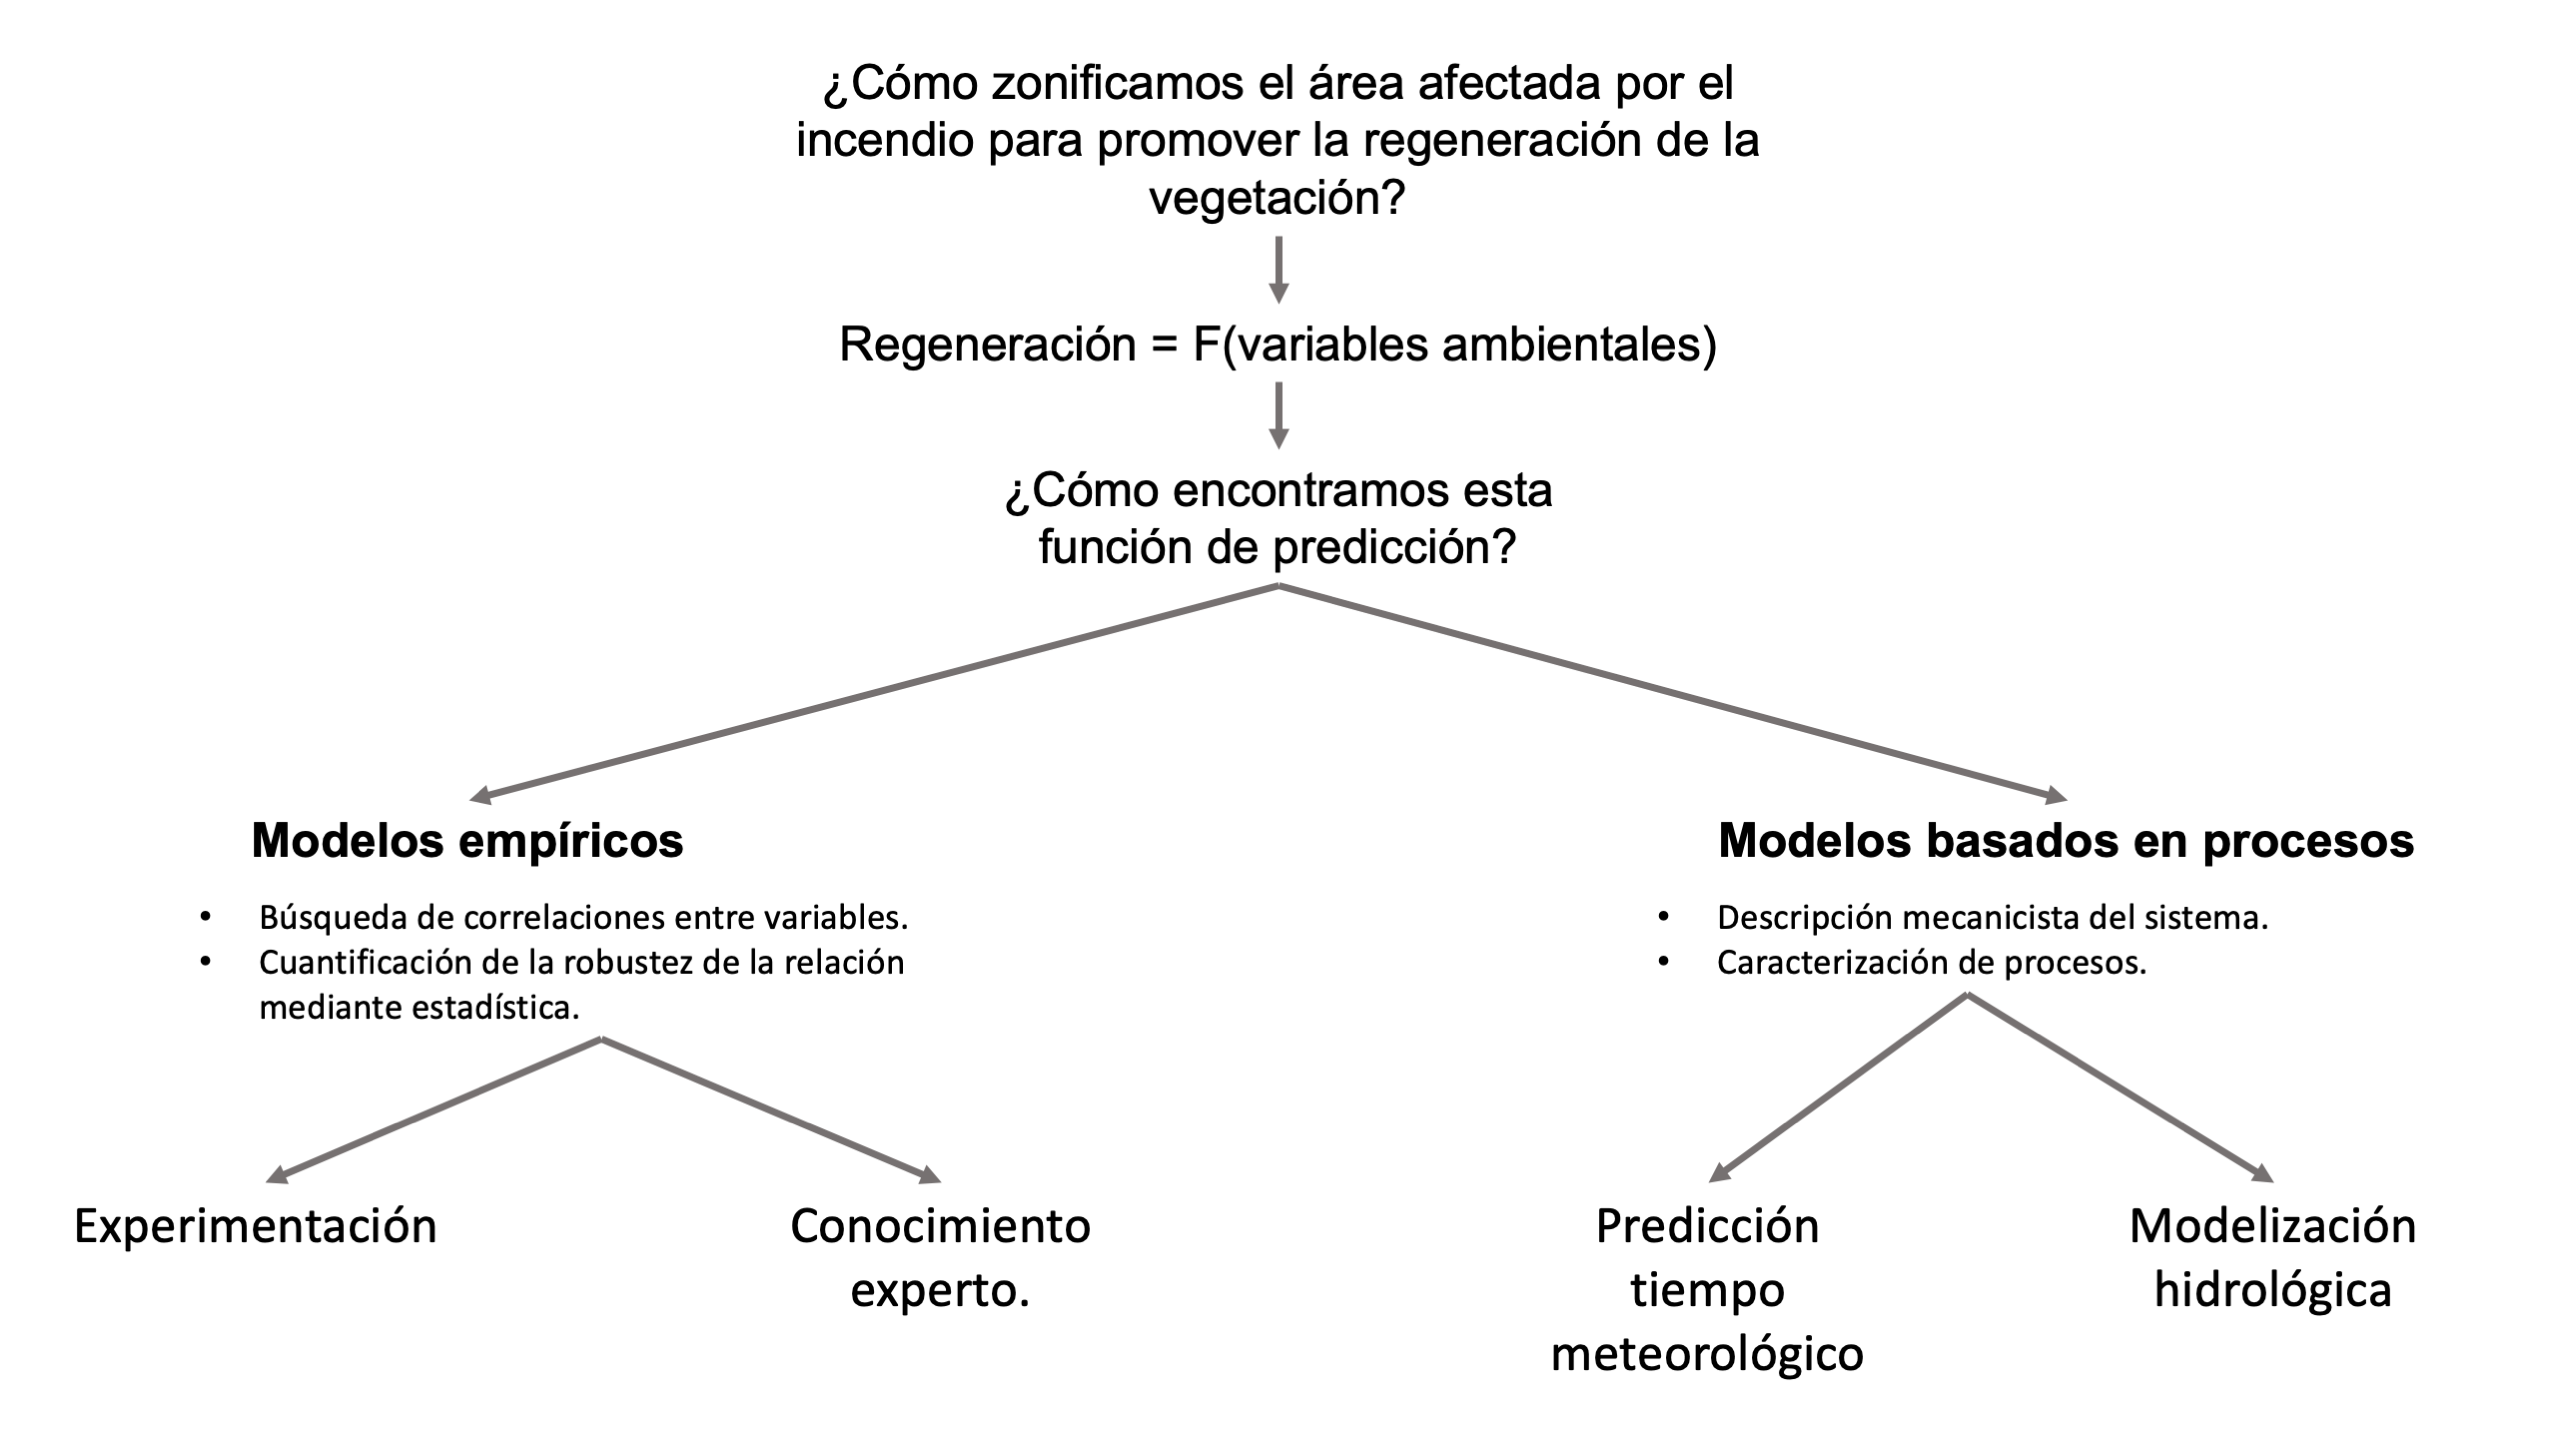
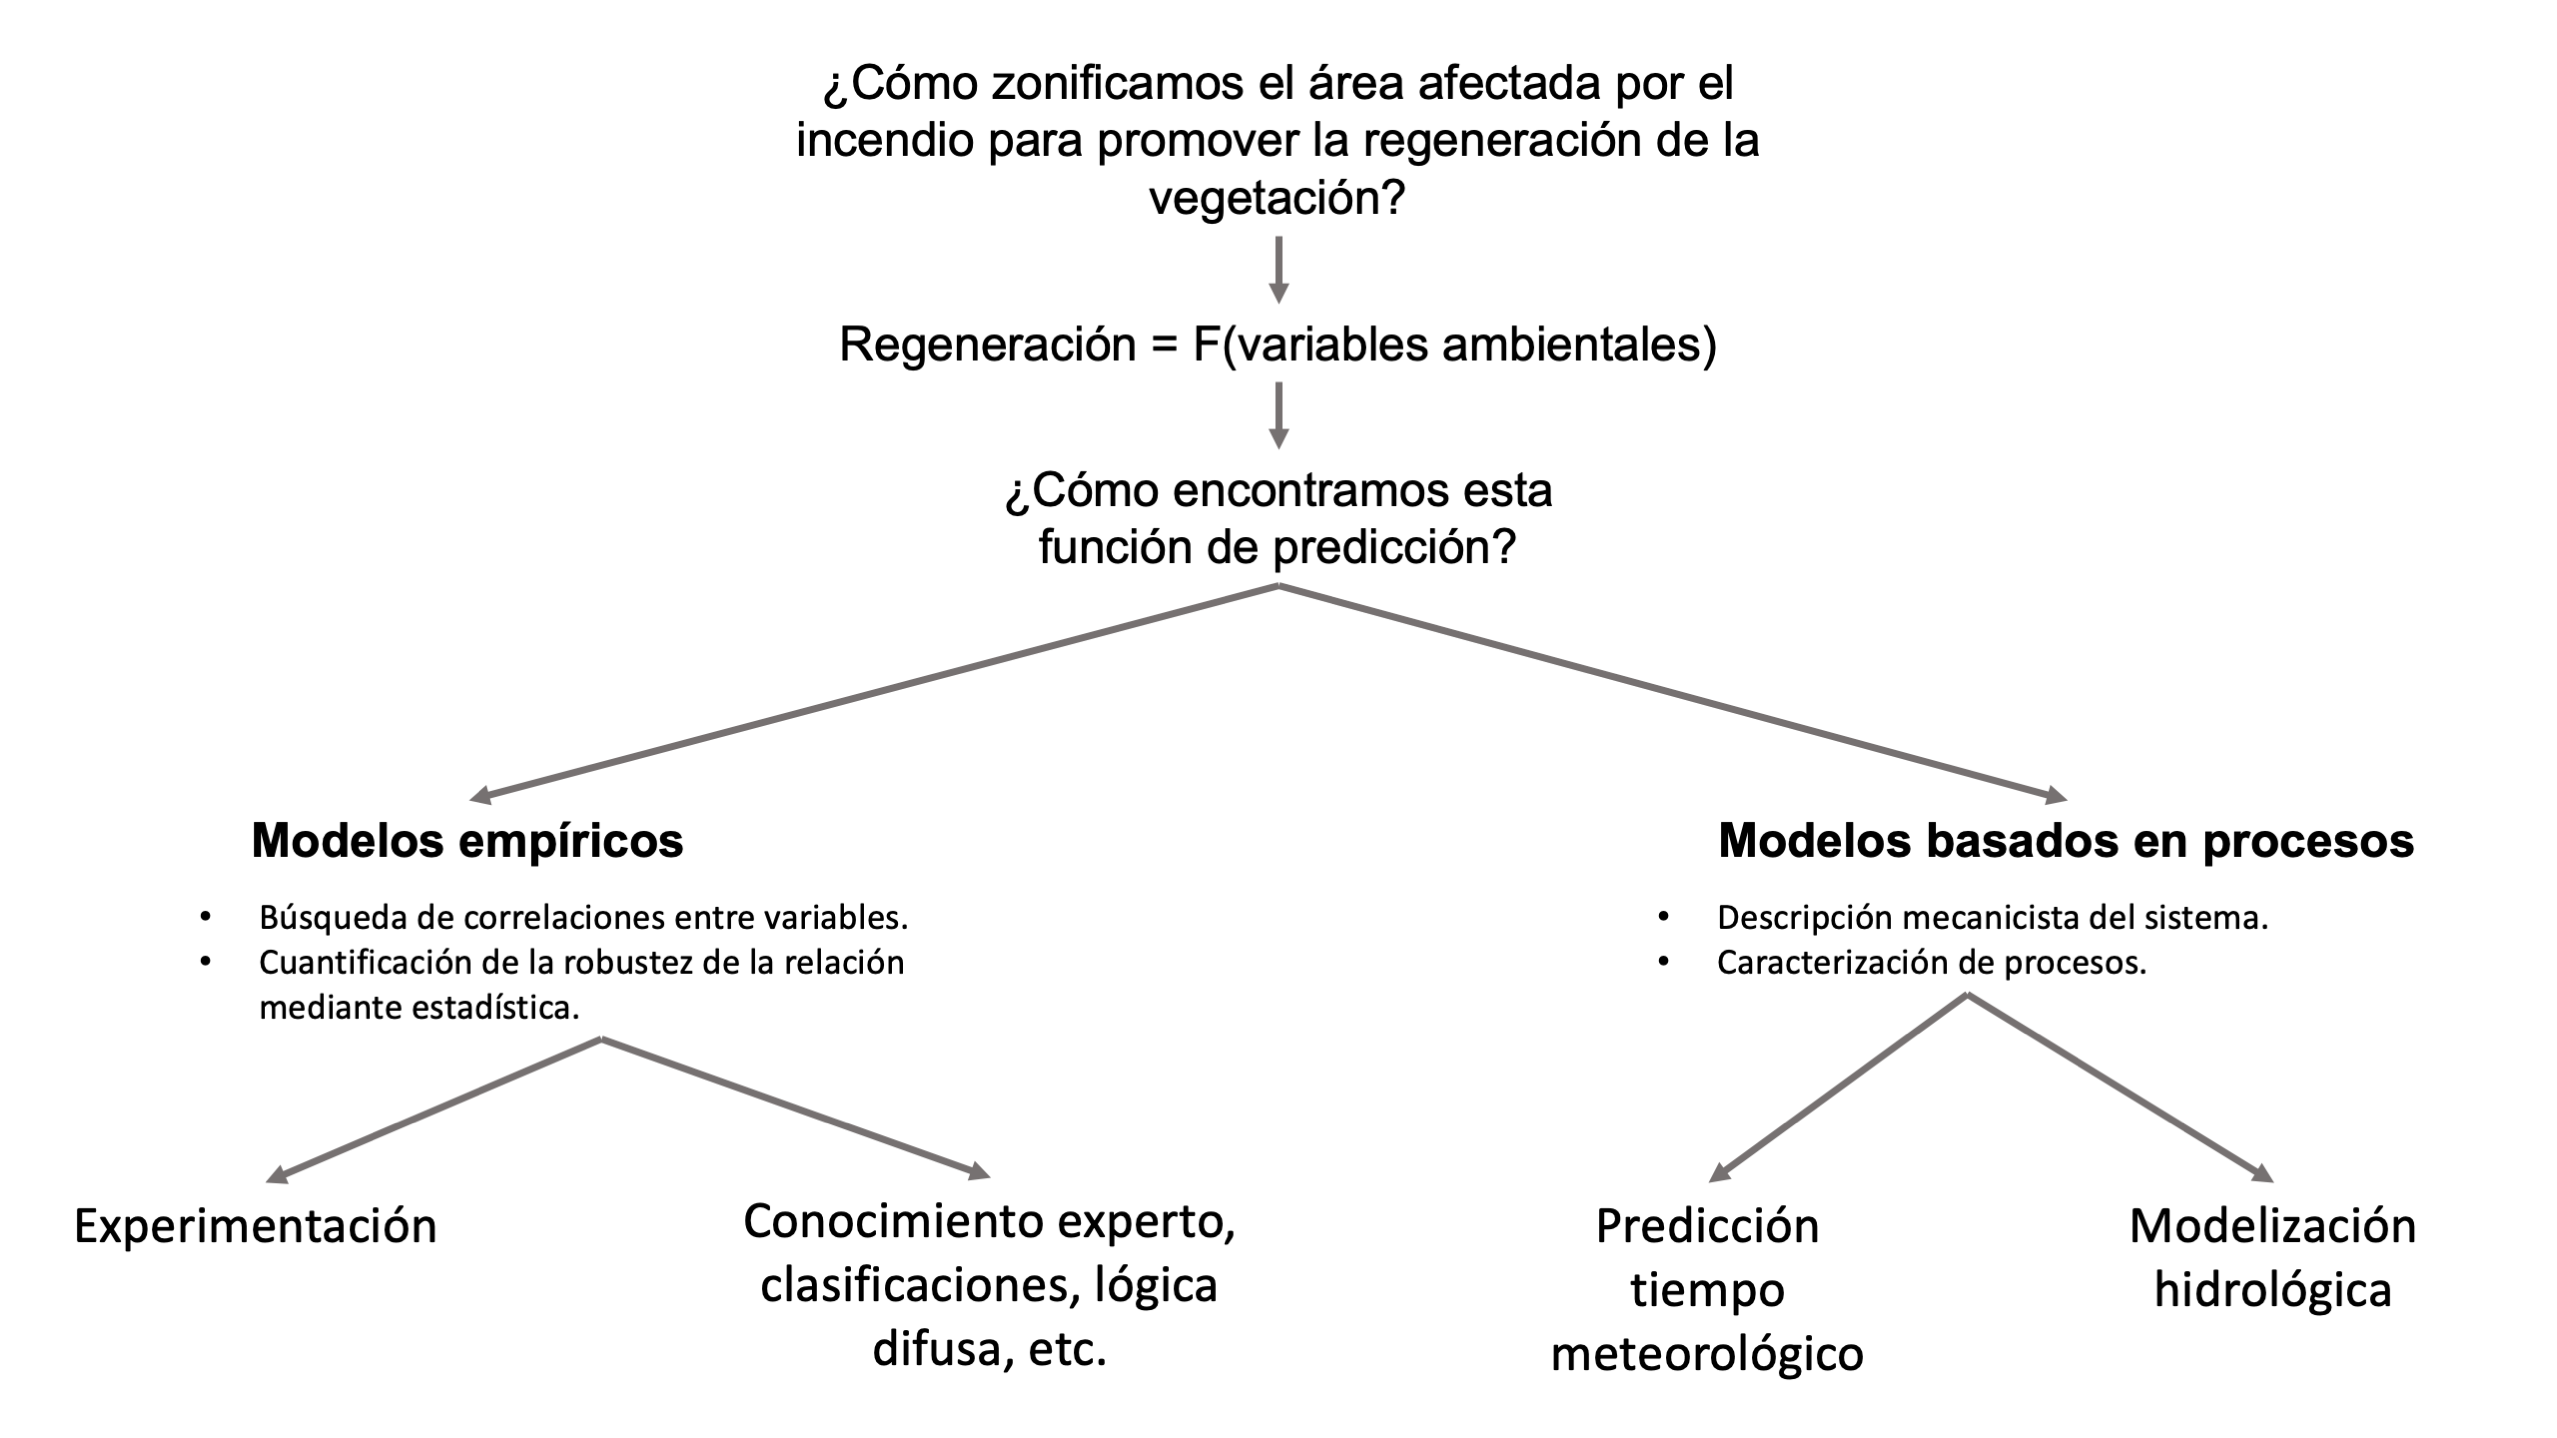
Varios
- Actualiza texto
- Actualiza imagen con tipos de métodos

Changed region(s): [[0.2781, 0.7955, 0.4943, 0.9485], [0.2472, 0.7344, 0.3399, 0.7955]]

diff --git a/integracion_variables.md b/integracion_variables.md
@@ -27,13 +27,26 @@ Esta sesión se organiza en torno al siguiente hilo argumental:
   + Álgebra de mapas: Se trata de un conjunto de técnicas que permiten combinar mapas procedentes de formatos diversos para resolver un problema de ubicación en el espacio de una actividad dada (en nuestro caso ubicación de las zonas con más regeneración).
   + Métodos basados en procesos: Consisten en simular el funcionamiento íntimo de los procesos elementales implicados en la pregunta en cuestión. 
 
-+ 
+
+El siguiente esquema muestra las técnicas anteriores de manera más gráfica.
 
 
-En [esta](https://github.com/aprendiendo-cosas/integracion_final_ecoinf_ugr/raw/2022-2023/presentacion/presentacion_agregacion.pptx) presentación se resumen los conceptos anteriores. 
+
+![tipos](https://github.com/aprendiendo-cosas/TP_integracion_final_SIG_II_geoforest/blob/main/imagenes/tipos_metodos.png?raw=true)
 
 
-Las siguientes secciones describen brevemente las dos técnicas de integración que hemos visto: evaluación multicriterio e integración mediante operadores booleanos. Antes describiremos el paso previo común a ambas: transformar los mapas de variables en mapas de criterios:
+
+En nuestro caso no podemos hacer experimentos porque no tenemos recursos económicos ni tiempo. Tampoco podemos realizar modelos basados en procesos porque no disponemos del conocimiento necesario ni del tiempo para adquirirlo (tampoco es el objetivo de esta asignatura). Así que, trataremos de responder a la pregunta inicial que nos hacemos en la asignatuar usando técnicas empíricas que tienen en cuenta el conocimiento experto y otras aproximaciones más "difusas" que las otras mostradas en el esquema.
+
+
+
+
+
+
+
+
+
+
 
 
 
